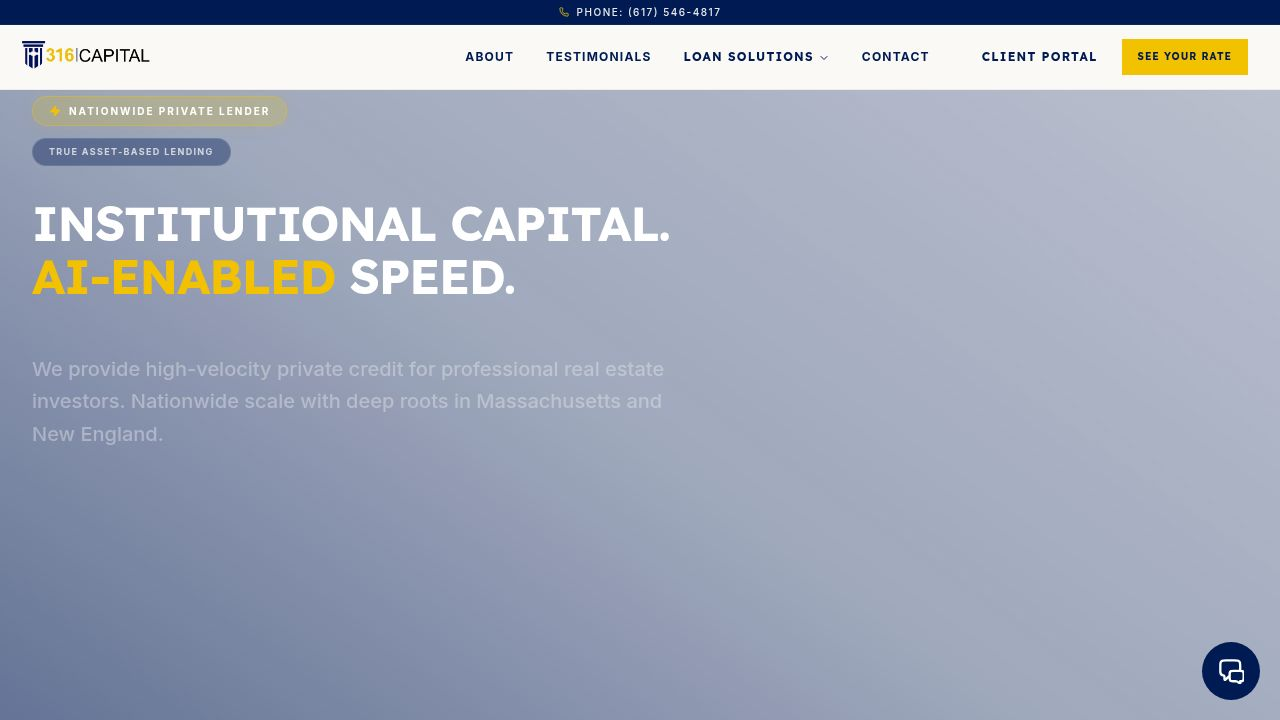
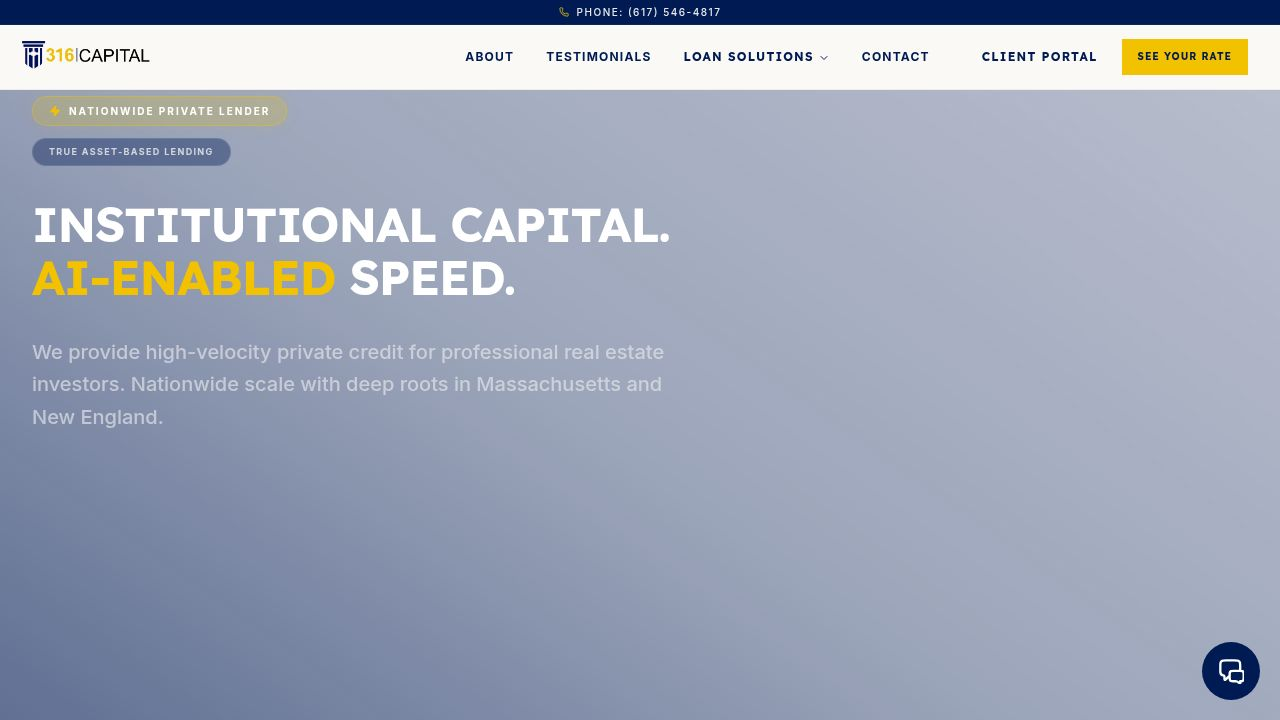
Relocate Boston landmark image and refine section layouts
Move the Boston landmark image to the experience section and adjust layouts for improved visual hierarchy and institutional aesthetic.

Replit-Commit-Author: Agent
Replit-Commit-Session-Id: ad25ce7e-5f93-4993-8773-c706cf91adb6
Replit-Commit-Checkpoint-Type: full_checkpoint
Replit-Commit-Event-Id: df439ef2-dca3-462e-a2df-d5698405daf8
Replit-Commit-Screenshot-Url: https://storage.googleapis.com/screenshot-production-us-central1/8a4d1e78-76b3-4b1b-9b1b-6099a4dc3aaa/ad25ce7e-5f93-4993-8773-c706cf91adb6/2ejLW5l
Replit-Helium-Checkpoint-Created: true

diff --git a/client/src/components/home/experience-section.tsx b/client/src/components/home/experience-section.tsx
@@ -1,25 +1,27 @@
 import { Shield, Zap, TrendingUp, Cpu, Network } from "lucide-react";
 import { motion } from "framer-motion";
 import { Button } from "@/components/ui/button";
+import bostonLandmark from "@/assets/images/boston-landmark.jpg";
 
 export function ExperienceSection() {
   return (
-    <section id="about" className="py-16 bg-cream-50 relative overflow-hidden">
+    <section id="about" className="py-24 bg-cream-50 relative overflow-hidden">
       <div className="max-w-7xl mx-auto px-4 sm:px-6 lg:px-8 relative z-10">
-        <div className="grid grid-cols-1 lg:grid-cols-2 gap-20 items-center">
+        <div className="grid grid-cols-1 lg:grid-cols-12 gap-16 lg:gap-24 items-center">
           <motion.div
             initial={ { opacity: 0, x: -30 } }
             whileInView={ { opacity: 1, x: 0 } }
             viewport={ { once: true } }
             transition={ { duration: 0.6 } }
+            className="lg:col-span-7"
           >
-            <h2 className="text-sm font-bold tracking-widest text-gold-600 uppercase mb-4">The 316 Network</h2>
-            <h3 className="text-4xl md:text-5xl font-bold text-[#001A54] mb-8 leading-tight">
+            <h2 className="text-sm font-bold tracking-widest text-gold-600 uppercase mb-4 italic">The 316 Network</h2>
+            <h3 className="text-4xl md:text-6xl font-bold text-[#001A54] mb-8 leading-[1.1] uppercase tracking-tight">
               One Interface. <br/>
-              Infinite Capital.
+              Infinite <span className="text-gold-600 italic font-medium">Capital.</span>
             </h3>
             
-            <p className="text-xl text-muted-foreground mb-10 leading-relaxed">
+            <p className="text-xl text-muted-foreground mb-12 leading-relaxed font-medium">
               316 Capital connects elite developers with high-liquidity funds, removing traditional financing friction through smart underwriting and direct-to-desk execution.
             </p>
             
@@ -31,28 +33,13 @@ export function ExperienceSection() {
                 { icon: Shield, title: "Proven Stability", text: "Institutional-grade certainty for professional real estate investors." }
               ].map((item, i) => (
                 <div key={i} className="flex flex-col space-y-3">
-                  <div className="h-10 w-10 rounded bg-white shadow-sm flex items-center justify-center">
+                  <div className="h-12 w-12 rounded-none border border-navy-950/10 flex items-center justify-center bg-white shadow-sm">
                     <item.icon className="h-5 w-5 text-navy-950" />
                   </div>
-                  <h4 className="font-bold text-navy-950">{item.title}</h4>
-                  <p className="text-sm text-muted-foreground leading-relaxed">{item.text}</p>
+                  <h4 className="font-bold text-navy-950 uppercase tracking-tight text-sm">{item.title}</h4>
+                  <p className="text-sm text-muted-foreground leading-relaxed font-medium">{item.text}</p>
                 </div>
               ))}
-            </div>
-
-            <div className="mt-8 flex items-center justify-center space-x-12 py-6 border-y border-navy-950/10">
-              <div className="text-center">
-                <span className="block text-2xl font-bold text-navy-950">$100M+</span>
-                <span className="text-[10px] font-bold text-gray-500 uppercase tracking-widest">Capital Deployed</span>
-              </div>
-              <div className="text-center">
-                <span className="block text-2xl font-bold text-navy-950">90%</span>
-                <span className="text-[10px] font-bold text-gray-500 uppercase tracking-widest">Max LTC Leverage</span>
-              </div>
-              <div className="text-center">
-                <span className="block text-2xl font-bold text-navy-950">True Asset</span>
-                <span className="text-[10px] font-bold text-gray-500 uppercase tracking-widest">Based Lending</span>
-              </div>
             </div>
           </motion.div>
           
@@ -61,33 +48,38 @@ export function ExperienceSection() {
             whileInView={ { opacity: 1, x: 0 } }
             viewport={ { once: true } }
             transition={ { duration: 0.6 } }
-            className="relative"
+            className="lg:col-span-5 relative"
           >
-            <div className="bg-navy-950 aspect-square p-12 flex flex-col justify-between group overflow-hidden shadow-2xl">
-               <motion.img 
-                 whileHover={ { scale: 1.1 } }
-                 transition={ { duration: 0.8 } }
-                 src="https://images.unsplash.com/photo-1486406146926-c627a92ad1ab?auto=format&fit=crop&q=80&w=1000" 
-                 alt="Modern architectural lines" 
-                 className="absolute inset-0 w-full h-full object-cover opacity-20"
-               />
-               <div className="relative z-10 h-full flex flex-col justify-between">
-                  <div className="flex justify-between items-start">
-                     <TrendingUp className="h-10 w-10 text-gold-500" />
-                     <div className="text-right">
-                        <span className="block text-[10px] font-bold text-gray-500 uppercase tracking-widest">Market Advantage</span>
-                        <span className="text-xs font-bold text-white uppercase">Institutional Scale</span>
-                     </div>
-                  </div>
-                  
-                  <div className="space-y-6">
-                    <p className="text-4xl font-bold text-white tracking-tighter">$100M+ Funded</p>
-                    <div className="h-1 w-20 bg-gold-500" />
-                    <p className="text-sm text-gray-400 font-medium leading-relaxed italic">
-                      "True Asset-Based Lending: Bridging the gap between ambitious developers and reliable institutional capital."
-                    </p>
-                  </div>
-               </div>
+            <div className="relative group">
+              <div className="absolute -inset-4 border-2 border-gold-500/10 translate-x-4 translate-y-4" />
+              <div className="bg-[#001A54] aspect-[4/5] p-12 flex flex-col justify-between overflow-hidden shadow-2xl relative">
+                 <motion.img 
+                   whileHover={ { scale: 1.05 } }
+                   transition={ { duration: 0.8 } }
+                   src={bostonLandmark} 
+                   alt="Boston Institutional Context" 
+                   className="absolute inset-0 w-full h-full object-cover opacity-30 grayscale-[0.3] hover:grayscale-0 transition-all duration-700"
+                 />
+                 <div className="absolute inset-0 bg-gradient-to-t from-[#001A54] via-transparent to-transparent opacity-60" />
+                 
+                 <div className="relative z-10 h-full flex flex-col justify-between">
+                    <div className="flex justify-between items-start">
+                       <TrendingUp className="h-12 w-12 text-[#F2C100]" />
+                       <div className="text-right">
+                          <span className="block text-[10px] font-black text-[#F2C100] uppercase tracking-[0.2em] mb-1">Regional HQ</span>
+                          <span className="text-xs font-bold text-white uppercase tracking-widest border-b border-[#F2C100]/50 pb-1">Boston, MA</span>
+                       </div>
+                    </div>
+                    
+                    <div className="space-y-6">
+                      <p className="text-4xl font-bold text-white tracking-tighter uppercase leading-none">Institutional <br/>Roots.</p>
+                      <div className="h-1 w-16 bg-[#F2C100]" />
+                      <p className="text-sm text-gray-300 font-bold leading-relaxed italic opacity-90">
+                        "Experience the advantage of institutional-grade capital combined with deep regional expertise in the Massachusetts market."
+                      </p>
+                    </div>
+                 </div>
+              </div>
             </div>
           </motion.div>
         </div>

diff --git a/client/src/components/home/hero.tsx b/client/src/components/home/hero.tsx
@@ -1,7 +1,6 @@
 import { Button } from "@/components/ui/button";
 import { ArrowRight, Zap } from "lucide-react";
 import heroVideo from "@/assets/videos/hero-boston-montage.mp4";
-import bostonLandmark from "@/assets/images/boston-landmark.jpg";
 import { motion, useMotionValue, useTransform, animate } from "framer-motion";
 import { useEffect, useState } from "react";
 
@@ -39,16 +38,11 @@ export function Hero() {
             muted
             playsInline
             preload="auto"
-            className="absolute inset-0 w-full h-full object-cover opacity-60"
+            className="absolute inset-0 w-full h-full object-cover"
           >
             <source src={heroVideo} type="video/mp4" />
           </video>
-          <img 
-            src={bostonLandmark} 
-            alt="Boston Landmark" 
-            className="absolute inset-0 w-full h-full object-cover mix-blend-overlay opacity-40"
-          />
-          <div className="absolute inset-0 bg-[#001A54]/40 mix-blend-multiply" />
+          <div className="absolute inset-0 bg-[#001A54]/30 mix-blend-multiply" />
           <div className="absolute inset-0 bg-gradient-to-tr from-[#001A54]/70 via-[#001A54]/20 to-transparent" />
         </motion.div>
       </div>
